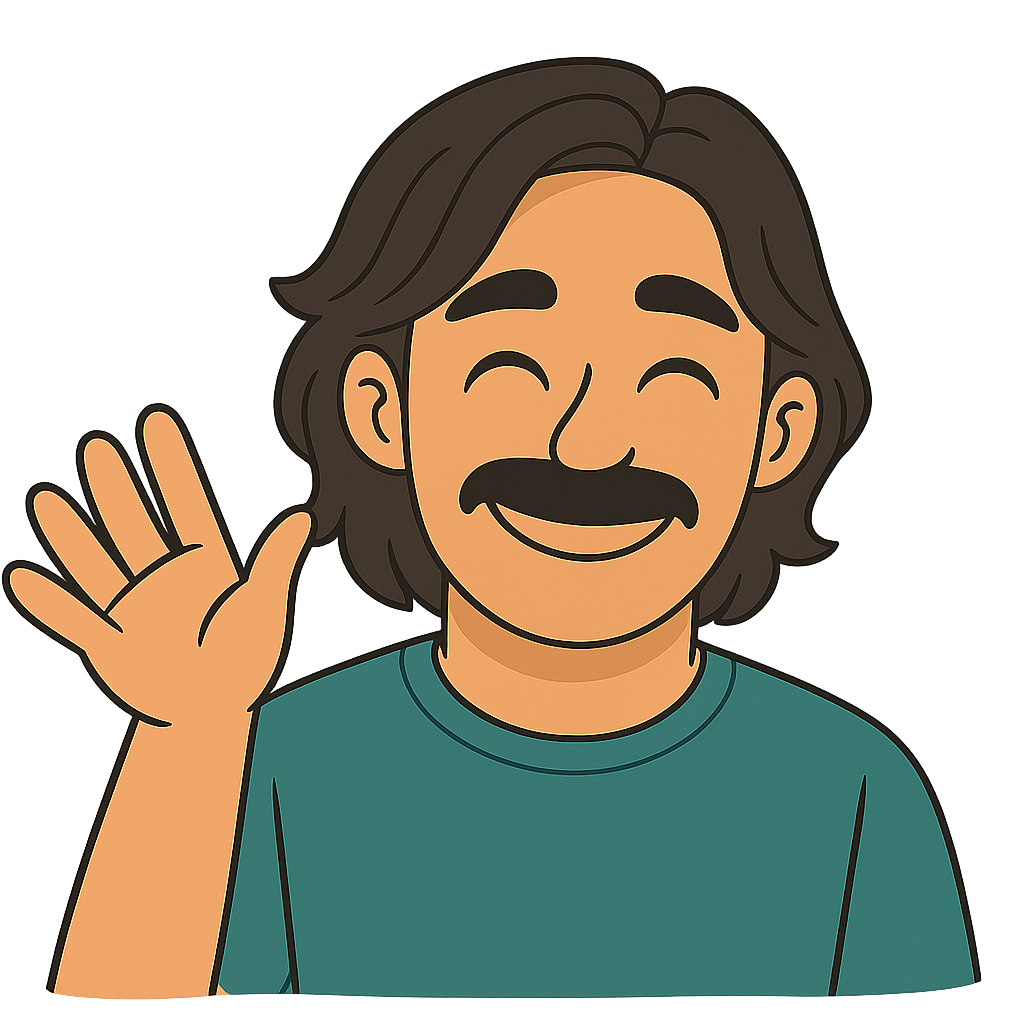
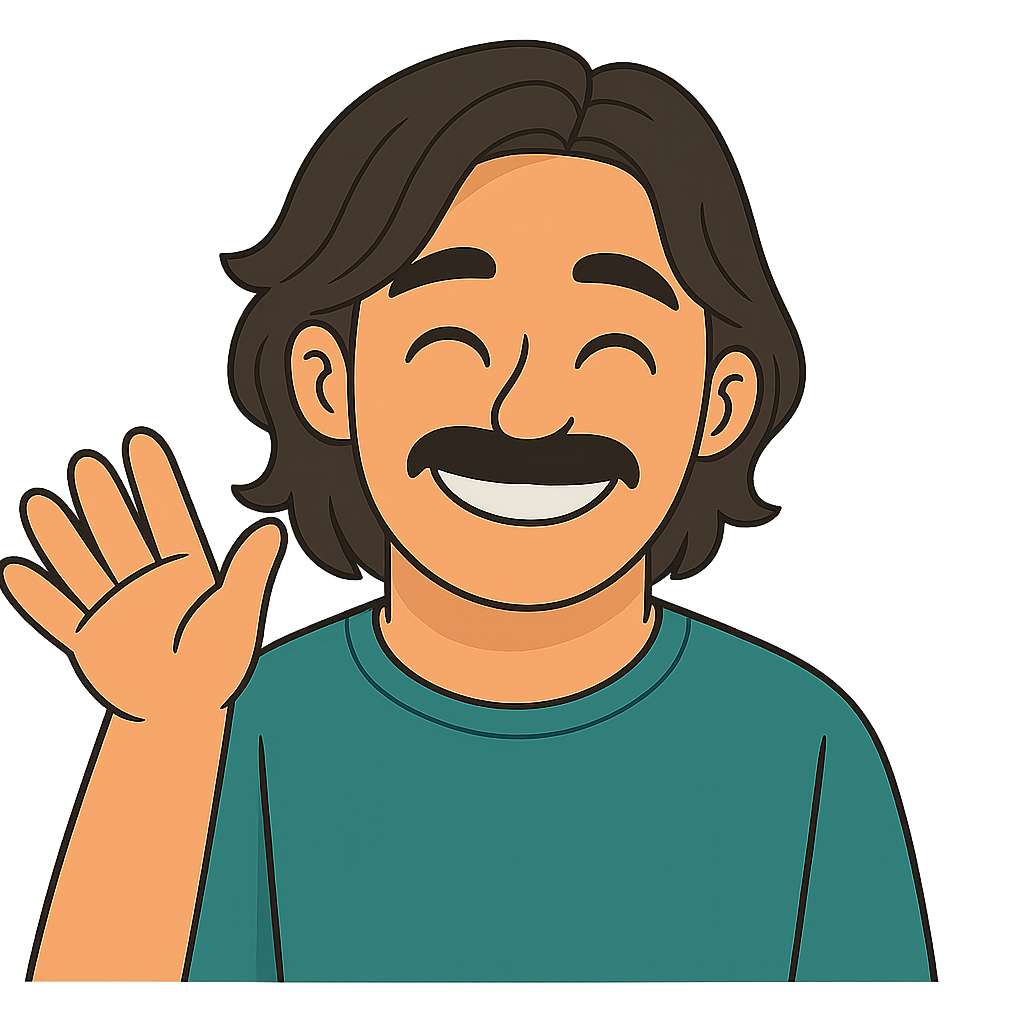
Goodbye message | Added new goodbye wave iamge and also the message is better

Changed region(s): [[0.0, 0.0312, 0.9688, 1.0]]

diff --git a/app/interaction_flow.py b/app/interaction_flow.py
@@ -125,7 +125,7 @@ def handle_goodbye_wave(frame, full_frame, cap):
 
     print("👋 Goodbye wave detected.")
 
-    message = "Goodbye! See you next time."
+    message = "Take care and have a lovely day. I will see you again soon!."
     update_subtitle(message)
 
     # 🗣 Start speech in parallel
